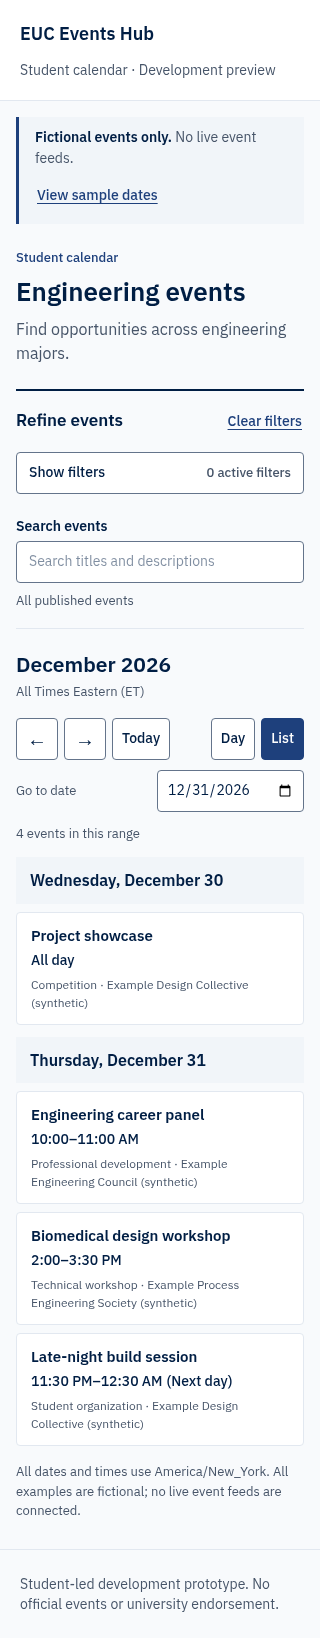
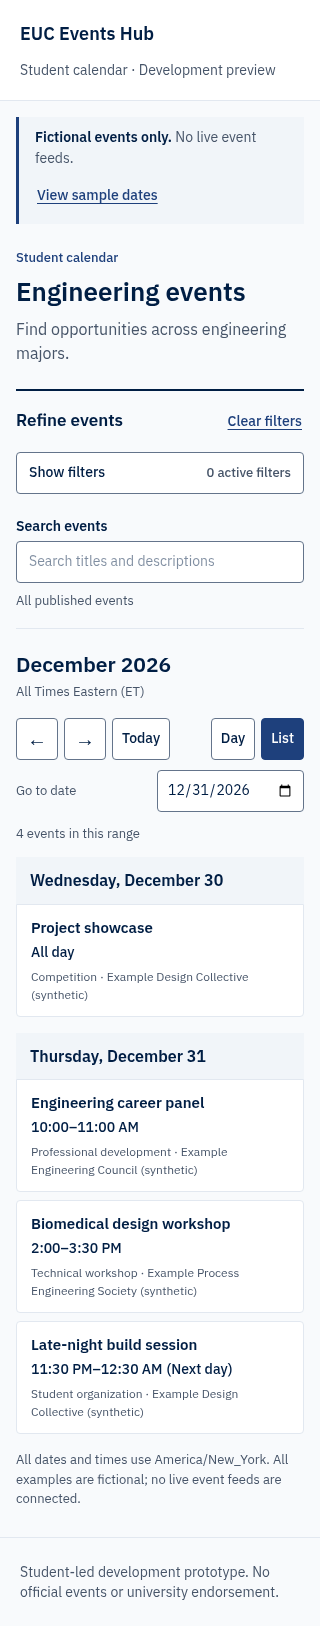
Attach date headers to first events and separate day groups

diff --git a/tests/student-calendar.spec.ts b/tests/student-calendar.spec.ts
@@ -551,9 +551,14 @@ for (const width of [320, 375, 430, 768]) {
         bottomBorder: style(".mobile-list-event").borderBottomWidth,
         leftBorder: style(".mobile-list-event").borderLeftWidth,
         rightBorder: style(".mobile-list-event").borderRightWidth,
-        radius: style(".mobile-list-event").borderRadius,
+        radius: style(".fc-list-event + .fc-list-event .mobile-list-event")
+          .borderRadius,
+        attachedTopRadius: style(".mobile-list-event").borderTopLeftRadius,
         cardPadding: style(".mobile-list-event").padding,
-        itemGap: style(".fc-list-event-title").paddingTop,
+        itemGap: style(".fc-list-event + .fc-list-event .fc-list-event-title")
+          .paddingTop,
+        headerGap: style(".fc-list-day + .fc-list-event .fc-list-event-title")
+          .paddingTop,
         cardSurface: style(".mobile-list-event").backgroundColor,
         pageSurface: style(".fc-list").backgroundColor,
         shadow: style(".mobile-list-event").boxShadow,
@@ -562,7 +567,7 @@ for (const width of [320, 375, 430, 768]) {
     expect(styles).toEqual({
       header: "16px",
       headerWeight: "600",
-      gap: "12px",
+      gap: "16px",
       title: "15px",
       time: "14px",
       timeWeight: "500",
@@ -572,8 +577,10 @@ for (const width of [320, 375, 430, 768]) {
       leftBorder: "1px",
       rightBorder: "1px",
       radius: "4px",
+      attachedTopRadius: "0px",
       cardPadding: "12px 14px",
       itemGap: "8px",
+      headerGap: "0px",
       cardSurface: "rgb(255, 255, 255)",
       pageSurface: "rgb(248, 250, 252)",
       shadow: "none",
@@ -587,7 +594,16 @@ for (const width of [320, 375, 430, 768]) {
       .boundingBox();
     expect(
       nextHeaderBox!.y - (previousDayBox!.y + previousDayBox!.height),
-    ).toBe(12);
+    ).toBe(16);
+    const firstHeaderBox = await headers
+      .nth(0)
+      .locator(".fc-list-day-cushion")
+      .boundingBox();
+    expect(
+      previousDayBox!.y - (firstHeaderBox!.y + firstHeaderBox!.height),
+    ).toBe(0);
+    expect(panelBox!.y - (nextHeaderBox!.y + nextHeaderBox!.height)).toBe(0);
+
     expect(
       await page.evaluate(
         () => document.documentElement.scrollWidth <= innerWidth,

diff --git a/app/globals.css b/app/globals.css
@@ -716,7 +716,7 @@ button.control[aria-pressed="true"] {
   background: transparent;
 }
 .mobile-calendar .fc .fc-list-day:not(:first-child) th {
-  border-top: 12px solid var(--color-background);
+  border-top: 16px solid var(--color-background);
 }
 .mobile-calendar .fc .fc-list-day-cushion {
   padding: 12px 14px;
@@ -742,4 +742,13 @@ button.control[aria-pressed="true"] {
 }
 .mobile-calendar .fc .mobile-list-event:hover {
   background: var(--color-surface-muted);
+}
+
+/* Attach the first card to its shared header; later cards retain their gap. */
+.mobile-calendar .fc .fc-list-day + .fc-list-event .fc-list-event-title {
+  padding-top: 0;
+}
+.mobile-calendar .fc .fc-list-day + .fc-list-event .mobile-list-event {
+  border-top-left-radius: 0;
+  border-top-right-radius: 0;
 }

diff --git a/README.md b/README.md
@@ -25,7 +25,7 @@ npm run build
 
 ## Student calendar
 
-The home page supports month, week, day, and chronological list views; previous/next/today navigation; a date jump; and published-only event details. Below 1024px, the default is a chronological month list with an optional day view. Below 1024px, filters collapse behind a labeled control showing the active-filter count. On desktop the sidebar stays visible. Majors, Organizations, and Event categories expand independently and retain selections. The count includes Recommended mode, majors used by that mode, organizations, categories, and nonempty search; majors saved in All Events do not affect results or the count. Mobile chronological lists share a weekday and full-month date header per day without repeating the year within a single-year range (cross-year displayed ranges include years). Date headers use 16px semibold text and 12px separation between day groups across mobile and tablet. Individual event items use a subtle 1px border, white surface, 4px radius, 12px/14px padding, and an 8px gap within each shared date group. They show 15px semibold titles, 14px medium-weight times, and 12px muted category/host information. Overnight rows use Next day or From prev day cues; event details retain full dates. All displayed dates, times, week boundaries, and navigation use `America/New_York`, independently of the browser time zone.
+The home page supports month, week, day, and chronological list views; previous/next/today navigation; a date jump; and published-only event details. Below 1024px, the default is a chronological month list with an optional day view. Below 1024px, filters collapse behind a labeled control showing the active-filter count. On desktop the sidebar stays visible. Majors, Organizations, and Event categories expand independently and retain selections. The count includes Recommended mode, majors used by that mode, organizations, categories, and nonempty search; majors saved in All Events do not affect results or the count. Mobile chronological lists share a weekday and full-month date header per day without repeating the year within a single-year range (cross-year displayed ranges include years). Date headers use 16px semibold text and 16px separation between day groups across mobile and tablet. Individual event items use a subtle 1px border, white surface, 4px radius, 12px/14px padding, and an 8px gap between cards within each shared date group. Each date header is flush with its first card, whose upper corners are square to visually attach it to the header. They show 15px semibold titles, 14px medium-weight times, and 12px muted category/host information. Overnight rows use Next day or From prev day cues; event details retain full dates. All displayed dates, times, week boundaries, and navigation use `America/New_York`, independently of the browser time zone.
 
 Use All Events to browse every published event, including unclassified examples. Recommended Events uses the selected majors and includes college-wide, explicitly targeted, and inherited host-audience events. Organization and category selections narrow results independently; search matches event titles and descriptions, ignoring case and surrounding whitespace. Clear filters returns to All Events and clears major, host, category, and search selections while preserving date and view.
 
